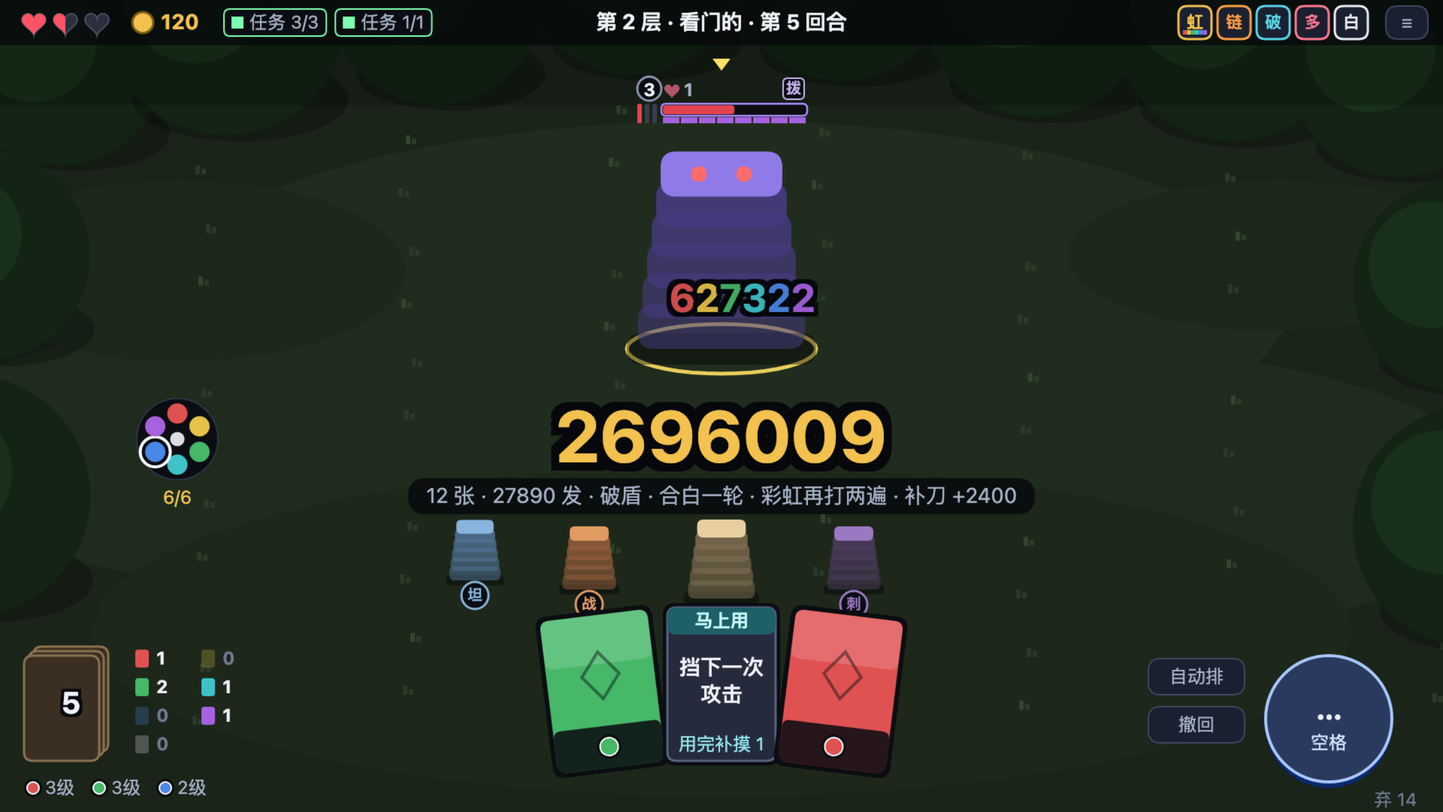
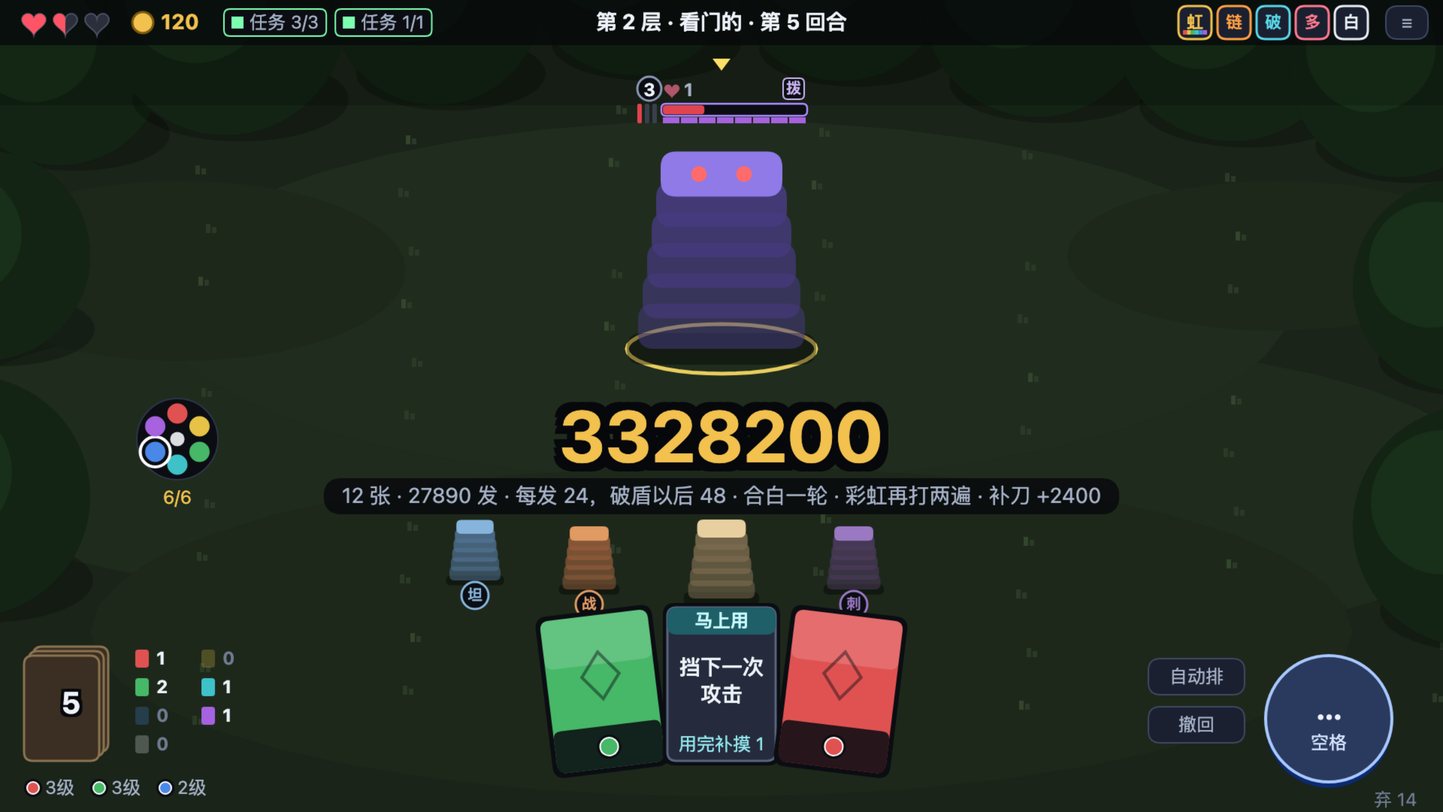
[claude] 上下布局用户点头；飘字照设计稿 5.3 改回一发一个数
- 整体摆放、头顶放血条和盾条（不显示一堆数据）写成定了
- 飘字：一发一个数，显示这一发多少；同一张牌连着冒；多了几发合一包，包上还是写一发多少
- 长链一张牌最多冒 4 个、0.5 秒淡掉；彩虹那两遍冒得多一些当压轴
- 之前错做成「一张牌一个数」，候选说明里撤回

Changed region(s): [[0.2188, 0.5, 0.7812, 0.6562], [0.4375, 0.3438, 0.5938, 0.4062], [0.4688, 0.125, 0.5312, 0.1562]]

diff --git a/原型/neon/modules/battle-view/proposals/updown.js b/原型/neon/modules/battle-view/proposals/updown.js
@@ -212,14 +212,14 @@ function buildTimeline(s) {
   s.chain.forEach((c, i) => {
     const fire = i * iv;
     ev.push({ k: 'fire', i, t: fire });
-    ev.push({ k: 'hit', i, t: fire + flight, target: s.target ?? 0, dmg: c.dmg, label: c.label, kind: c.kind || 'normal', shred: c.shred, crit: c.crit });
-    if (c.white) ev.push({ k: 'white', i, t: fire + flight + 0.08, dmgs: c.white.dmgs, label: c.white.label });
+    ev.push({ k: 'hit', i, t: fire + flight, target: s.target ?? 0, dmg: c.dmg, hits: c.hits, per: c.per, critShare: c.critShare, critPer: c.critPer, kind: 'normal', shred: c.shred });
+    if (c.white) ev.push({ k: 'white', i, t: fire + flight + 0.08, hits: c.white.hits, per: c.white.per });
     if (c.ally) ev.push({ k: 'ally', t: fire + flight + 0.28, ally: c.ally });
     t = Math.max(t, fire + flight, c.ally ? fire + flight + 0.28 + 0.3 : 0); // 队友那一刀砍完才算打完
   });
   if (s.rainbow) {
     ev.push({ k: 'rainbowRing', t: t + 0.25 });
-    s.rainbow.forEach((p, j) => ev.push({ k: 'hit', i: -1, t: t + 0.45 + j * 0.3, target: s.target ?? 0, dmg: p.dmg, label: p.label, kind: 'rainbow' }));
+    s.rainbow.forEach((p, j) => ev.push({ k: 'hit', i: -1, t: t + 0.45 + j * 0.3, target: s.target ?? 0, dmg: p.hits * p.per, hits: p.hits, per: p.per, kind: 'rainbow' }));
     t += 0.45 + s.rainbow.length * 0.3;
   }
   ev.push({ k: 'total', t: t + 0.35 });
@@ -238,6 +238,17 @@ function stateAt(s, t) {
     traits: m.traits,
   }));
   const fx = { hits: [], floaters: [], whites: [], allyAt: [], slashes: [], frags: [], rainbowAt: -10, totalAt: -10, monAt: -10, fired: -1 };
+  // 飘字（设计稿 5.3）：一发一个数，数是这一发打了多少。同一张牌的几发连着冒出来；
+  // 一张牌最多冒 packBudget 个，发数再多就几发合成一包，包上还是写一发多少。
+  const emit = (m, t0, hits, per, kind, critShare = 0, critPer = 0) => {
+    const budget = (s.packBudget ?? 8) * (kind === 'rainbow' ? 3 : 1); // 彩虹是压轴，满屏多冒一些
+    const n = Math.max(1, Math.min(hits, budget));
+    for (let i = 0; i < n; i++) {
+      const cnt = Math.round((hits * (i + 1)) / n) - Math.round((hits * i) / n);
+      const crit = critShare > 0 && Math.floor((i + 1) * critShare) > Math.floor(i * critShare);
+      fx.floaters.push({ t: t0 + (i / n) * (kind === 'rainbow' ? 0.3 : 0.24), m, text: String(crit ? critPer : per), count: cnt > 1 ? cnt : 0, kind: crit ? 'crit' : kind, n: fx.floaters.length });
+    }
+  };
   let total = 0; // 这一下一共打了多少（溢出的也算，玩家看的就是这个数）
   const applyDmg = (mi, dmg, at) => {
     const st = ms[mi];
@@ -264,8 +275,7 @@ function stateAt(s, t) {
     if (e.k === 'hit') {
       applyDmg(e.target, e.dmg, e.t);
       fx.hits.push({ i: e.i, t: e.t, target: e.target, kind: e.kind });
-      fx.floaters.push({ t: e.t, m: e.target, text: e.label, kind: e.kind, n: fx.floaters.length });
-      if (e.crit) fx.floaters.push({ t: e.t + 0.05, m: e.target, text: e.crit, kind: 'crit', n: fx.floaters.length });
+      emit(e.target, e.t, e.hits, e.per, e.kind, e.critShare, e.critPer);
       const st = ms[e.target];
       if (e.shred && !st.broken && st.alive) {
         for (const [c, n] of Object.entries(e.shred)) { const sh = st.shields.find((x) => x.color === c); if (sh) sh.cur = Math.max(0, sh.cur - n); }
@@ -276,15 +286,15 @@ function stateAt(s, t) {
       fx.whites.push({ t: e.t });
       s.monsters.forEach((m, mi) => {
         if (!ms[mi].alive) return;
-        applyDmg(mi, e.dmgs[mi], e.t);
-        fx.floaters.push({ t: e.t, m: mi, text: e.label[mi], kind: 'white', n: fx.floaters.length });
+        applyDmg(mi, e.hits * e.per[mi], e.t);
+        emit(mi, e.t, e.hits, e.per[mi], 'white');
       });
     }
     if (e.k === 'ally') {
       fx.allyAt.push({ t: e.t, idx: e.ally.idx, say: e.ally.say });
       fx.slashes.push({ t: e.t + 0.3, m: s.target ?? 0, color: e.ally.color });
       applyDmg(s.target ?? 0, e.ally.dmg, e.t + 0.3);
-      fx.floaters.push({ t: e.t + 0.3, m: s.target ?? 0, text: String(e.ally.dmg), kind: 'ally', n: fx.floaters.length });
+      fx.floaters.push({ t: e.t + 0.3, m: s.target ?? 0, text: String(e.ally.dmg), count: 0, kind: 'ally', n: fx.floaters.length });
     }
     if (e.k === 'rainbowRing') fx.rainbowAt = e.t;
     if (e.k === 'total') fx.totalAt = e.t;
@@ -475,29 +485,29 @@ export function drawUpDown(r, s, t, opts = {}) {
         r.transform({ x: tg.x + tg.s * 0.5 + 72, y: tg.y - tg.s * 0.45, scale: pop(k * 2) }, () => rainbowText(r, '彩虹 ×3', 0, 0, F.xl));
       }
     }
-    // 飘字：每只怪一列，新的从下面弹出来，旧的往上推、过一会淡掉。长链十几个数也不叠
+    // 飘字：一发一个数，散在怪身上，冒出来弹一下、往上飘一点、0.75 秒淡掉
     {
-      const lineH = (f) => (f.kind === 'crit' ? 34 : f.kind === 'ally' || f.kind === 'rainbow' ? 30 : 26);
-      const sizeOf = (f) => (f.kind === 'crit' ? 30 : f.kind === 'ally' || f.kind === 'rainbow' ? 26 : 22);
-      s.monsters.forEach((m, mi) => {
-        const col = fx.floaters.filter((f) => f.m === mi && f.t <= now).sort((a, b) => a.t - b.t);
-        const sl = slots[mi];
-        const baseY = sl.y - sl.s * 0.18;
-        const room = baseY - (sl.y - sl.s - REGIONS.overhead.gap + REGIONS.overhead.barH + REGIONS.overhead.toughH + 22); // 往上推到血条下面为止
-        let up = 0;
-        for (let j = col.length - 1; j >= 0; j--) {
-          const f = col[j];
-          const k = life(now, f.t, 1.3);
-          if (k > 1 || up > room) break;
-          const x = sl.x + (j % 2 ? 14 : -14);
-          const y = baseY - up - Math.min(1, k * 4) * 6;
-          const a = Math.min(k < 0.75 ? 1 : (1 - k) / 0.25, up > room - 30 ? (room - up) / 30 : 1);
-          r.withAlpha(Math.max(0, a), () => r.transform({ x, y, scale: pop(k * 5) }, () => {
-            if (f.kind === 'rainbow') rainbowText(r, f.text, 0, 0, sizeOf(f));
-            else bold(r, f.text, 0, 0, { size: sizeOf(f), align: 'center', color: f.kind === 'crit' ? T.crit : f.kind === 'ally' ? '#ffd9a8' : '#ffffff', outline: f.kind === 'white' ? '#1d4a8a' : f.kind === 'ally' ? '#5a2a0a' : '#07080c' });
-          }));
-          up += lineH(f);
-        }
+      const rnd = (n, k) => { const v = Math.sin(n * 12.9898 + k * 78.233) * 43758.5453; return v - Math.floor(v); };
+      const SIZE = { normal: 17, white: 17, rainbow: 19, crit: 23, ally: 26 };
+      const COLOR = { normal: '#ffffff', white: '#ffffff', crit: T.crit, ally: '#ffd9a8' };
+      const EDGE = { normal: '#07080c', white: '#1d4a8a', crit: '#3a1a00', ally: '#5a2a0a' };
+      fx.floaters.forEach((f) => {
+        const dur = f.kind === 'ally' ? 1.1 : (s.floatLife ?? 0.75);
+        const k = life(now, f.t, dur);
+        if (k < 0 || k > 1) return;
+        const sl = slots[f.m];
+        const w = Math.max(sl.s, 100);
+        const x = f.kind === 'ally' ? sl.x + w * 0.42 : sl.x + (rnd(f.n, 1) - 0.5) * w * 1.25;
+        const y = (f.kind === 'ally' ? sl.y - sl.s * 0.75 : sl.y - sl.s * (0.15 + rnd(f.n, 2) * 0.7)) - k * 16;
+        const size = SIZE[f.kind];
+        r.withAlpha(k < 0.7 ? 1 : (1 - k) / 0.3, () => r.transform({ x, y, scale: pop(k * 6) }, () => {
+          if (f.kind === 'rainbow') rainbowText(r, f.text, 0, 0, size);
+          else bold(r, f.text, 0, 0, { size, align: 'center', color: COLOR[f.kind], outline: EDGE[f.kind] });
+          if (f.count && s.showPackCount) { // 合成的一包：要不要小字写几发，先关着（太乱），见候选说明 B 第 3 问
+            const tw = r.measureText(f.text, { size, weight: 'bold' }).width;
+            bold(r, `×${f.count}`, tw / 2 + 3, 3, { size: 11, color: '#c9d3e6', align: 'left' });
+          }
+        }));
       });
     }
     // 总数：链飞走以后，在链那里弹出来

diff --git a/原型/neon/modules/battle-view/proposals/updown-scenes.js b/原型/neon/modules/battle-view/proposals/updown-scenes.js
@@ -5,6 +5,11 @@
 // hand：一群 4 只，回合刚开始，手里 12 张（最多就是 12），鼠标放在一张牌和一只怪上。
 
 const g = (color, gems, extra = {}) => ({ color, gems, ...extra });
+// 链里一张牌打出去：hits 发，每发 per；critShare 是暴击的比例，暴击那几发每发 critPer
+const hit = (hits, per, critShare = 0, critPer = 0) => {
+  const critHits = Math.round(hits * critShare);
+  return { hits, per, critShare, critPer, dmg: (hits - critHits) * per + critHits * critPer };
+};
 
 const DECK = { red: 3, yellow: 2, green: 4, cyan: 3, blue: 4, purple: 2, white: 1 };
 
@@ -39,17 +44,17 @@ const ONE = {
   ],
   flyIn: 1, // 链尾那张是从手里第 2 个位子飞过去的
   chain: [
-    g('red', ['red'], { mult: '×1', dmg: 15, label: '15', shred: { red: 1 } }),
-    g('purple', ['red', 'blue'], { mult: '×2', rel: 'connect', dmg: 60, label: '60', shred: { red: 1, blue: 1 } }),
-    g('blue', ['blue'], { mult: '×4', rel: 'connect', dmg: 60, label: '60', shred: { blue: 1 }, ally: { idx: 0, say: '补刀', color: '#c9a8ff', dmg: 120 } }),
-    g('cyan', ['green', 'blue'], { mult: '×8', rel: 'connect', dmg: 720, label: '720', kind: 'crit' }), // 16 发 × 30，里面有几发暴击
+    g('red', ['red'], { mult: '×1', ...hit(1, 15), shred: { red: 1 } }),
+    g('purple', ['red', 'blue'], { mult: '×2', rel: 'connect', ...hit(4, 15), shred: { red: 1, blue: 1 } }),
+    g('blue', ['blue'], { mult: '×4', rel: 'connect', ...hit(4, 15), shred: { blue: 1 }, ally: { idx: 0, say: '补刀', color: '#c9a8ff', dmg: 120 } }),
+    g('cyan', ['green', 'blue'], { mult: '×8', rel: 'connect', ...hit(16, 30, 0.5, 60) }), // 破盾以后每发 ×1.5，一半暴击
   ],
   hand: [g('green', ['green'], { dim: true }), { fn: true, text: '挡下一次攻击', draw: 1 }],
   handAfter: [g('green', ['green']), { fn: true, text: '挡下一次攻击', draw: 1 }],
   ghost: [600],
   willShred: [{ red: 2, blue: 2 }],
   pv: { hits: 25, per: 15, total: 615, hint: '第 3 张破盾，后面 ×1.5' },
-  why: '4 张 · 25 发 · 第 3 张破盾，后面 ×1.5 · 补刀 +120',
+  why: '4 张 · 25 发 · 每发 15，破盾以后 30 · 补刀 +120',
 };
 
 const PACK = {
@@ -80,10 +85,10 @@ const PACK = {
   ],
   flyIn: 0,
   chain: [
-    g('yellow', ['red', 'green'], { mult: '×1', dmg: 30, label: '30' }),
-    g('green', ['green'], { mult: '×2', rel: 'connect', dmg: 30, label: '30' }),
-    g('purple', ['red', 'blue'], { mult: '×4', rel: 'complement', dmg: 120, label: '120', shred: { blue: 1 }, white: { dmgs: [120, 160, 160], label: ['120', '160', '160'] } }),
-    g('blue', ['blue'], { mult: '×8', rel: 'connect', dmg: 120, label: '120', shred: { blue: 1 }, ally: { idx: 0, say: '补刀', color: '#c9a8ff', dmg: 90 } }),
+    g('yellow', ['red', 'green'], { mult: '×1', ...hit(2, 15) }),
+    g('green', ['green'], { mult: '×2', rel: 'connect', ...hit(2, 15) }),
+    g('purple', ['red', 'blue'], { mult: '×4', rel: 'complement', ...hit(8, 15), shred: { blue: 1 }, white: { hits: 12, per: [15, 20, 20] } }), // 合白：红绿蓝三份，每份倍率那么多发
+    g('blue', ['blue'], { mult: '×8', rel: 'connect', ...hit(8, 15), shred: { blue: 1 }, ally: { idx: 0, say: '补刀', color: '#c9a8ff', dmg: 90 } }),
   ],
   hand: [g('red', ['red'], { dim: true }), g('green', ['green'], { dim: true })],
   handAfter: [g('red', ['red']), g('green', ['green'])],
@@ -91,10 +96,10 @@ const PACK = {
   willShred: [{ blue: 2 }],
   pv: { hits: 20, per: 15, total: 300, hint: '合白：3 只都吃一轮' },
   attack: { m: 2, hearts: 0.5, blocked: false, reset: 3 },
-  why: '4 张 · 20 发 · 合白一轮 3 只 · 补刀 +90',
+  why: '4 张 · 20 发 · 合白一轮 3 只各 12 发 · 补刀 +90',
 };
 
-// 看门的：每发 30，盾没破 ×0.75 = 22.5，破了 ×1.5 = 45
+// 看门的：盾没破每发 24，破了 48
 const hitsOf = [2, 8, 8, 32, 64, 128, 512, 1536, 1024, 4096, 4096, 16384];
 const GATE_CHAIN = [
   g('red', ['red'], { mult: '×2' }),
@@ -110,16 +115,12 @@ const GATE_CHAIN = [
   g('blue', ['blue'], { mult: '×4096', rel: 'connect' }),
   g('purple', ['red', 'blue'], { mult: '×8192', rel: 'connect' }),
 ];
-const gateChain = GATE_CHAIN.map((c, i) => {
-  const per = i < 3 ? 22.5 : 45;
-  const dmg = Math.round(hitsOf[i] * per);
-  return { ...c, dmg, label: String(dmg) };
-});
+const gateChain = GATE_CHAIN.map((c, i) => ({ ...c, ...hit(hitsOf[i], i < 3 ? 24 : 48, i === 11 ? 0.3 : 0, 120) }));
 gateChain[2].ally = { idx: 1, say: '补刀', color: '#c9a8ff', dmg: 2400 };
-gateChain[9].white = { dmgs: [gateChain[9].dmg], label: [String(gateChain[9].dmg)] };
-gateChain[11].kind = 'crit';
-const RAINBOW_PASS = 627322; // 换了一条新血，盾是满的，彩虹再打的两遍吃 ×0.75
-const gateSum = gateChain.reduce((a, c) => a + c.dmg + (c.white ? c.white.dmgs[0] : 0) + (c.ally ? c.ally.dmg : 0), 0) + RAINBOW_PASS * 2;
+gateChain[9].white = { hits: 2048 * 3, per: [48] };
+const CHAIN_HITS = hitsOf.reduce((a, b) => a + b, 0);
+const RAINBOW = { hits: CHAIN_HITS, per: 24 }; // 换了一条新血，盾是满的，彩虹再打的两遍每发 24
+const gateSum = gateChain.reduce((a, c) => a + c.dmg + (c.white ? c.white.hits * c.white.per[0] : 0) + (c.ally ? c.ally.dmg : 0), 0) + RAINBOW.hits * RAINBOW.per * 2;
 
 const GATE = {
   status: {
@@ -150,13 +151,15 @@ const GATE = {
   queued: GATE_CHAIN,
   flyIn: 4,
   chain: gateChain,
-  rainbow: [{ dmg: RAINBOW_PASS, label: String(RAINBOW_PASS) }, { dmg: RAINBOW_PASS, label: String(RAINBOW_PASS) }],
+  rainbow: [RAINBOW, RAINBOW],
+  packBudget: 4, // 长链：一张牌最多冒 4 个数，0.5 秒就淡掉，同屏二十来个
+  floatLife: 0.5,
   hand: [g('green', ['green'], { dim: true }), { fn: true, text: '挡下一次攻击', draw: 1 }, g('red', ['red'], { dim: true })],
   handAfter: [g('green', ['green']), { fn: true, text: '挡下一次攻击', draw: 1 }, g('red', ['red'])],
   ghost: [1200000],
   willShred: [{ green: 2 }],
-  pv: { hits: 27890, per: 45, total: gateSum - 2400, hint: '第 3 张破盾 · 彩虹再打两遍' },
-  why: '12 张 · 27890 发 · 破盾 · 合白一轮 · 彩虹再打两遍 · 补刀 +2400',
+  pv: { hits: CHAIN_HITS, per: 48, total: gateSum - 2400, hint: '第 3 张破盾 · 彩虹再打两遍' },
+  why: `12 张 · ${CHAIN_HITS} 发 · 每发 24，破盾以后 48 · 合白一轮 · 彩虹再打两遍 · 补刀 +2400`,
 };
 
 const HAND = {

diff --git a/进度.md b/进度.md
@@ -6,16 +6,16 @@
 **做到哪**：设计稿第 3 版整份用户点过头了。原型：neon 做完阶段 0 和阶段 1 前半段（`原型/neon/`），**claude 接手**，就在 `原型/neon/` 里同时做布局和阶段 1 后半段（提示词 `原型/提示词-接手neon.md`，提交写 `[claude]`）。
 - 第一步修小毛病**做完了**。
 - 第二步**等用户挑**：`原型/neon/给用户挑-画面和加成队友.md`（A 画面框架、B 战斗布局、C 4 个加成和 2 个队友）。
-- **B 按用户的纠正重做了**：用户说美术样片的圆台、木桩只是怪的展示页，战斗在森林空地上；要上下布局、手牌排成弧、怪头顶只放一根血条和小状态（细节悬停才出）、出手要有简单的提示特效。前四个布局作废，新做了一页会动的上下布局 `原型/neon/modules/battle-view/proposals/updown.html`，截图 `原型/neon/shots/上下布局/`。这几条纠正也写进了 `CLAUDE.md` / `AGENTS.md` 第 4 节「画面和美术」。
+- **B 按用户的纠正重做了，用户点了头**：整体摆放可以；怪头顶放血条和盾条，但不显示一堆数据；飘字照设计稿 5.3，一发一个数（我上一版问成「一张牌一个数」是问错了，已改回）。用户说美术样片的圆台、木桩只是怪的展示页，战斗在森林空地上；要上下布局、手牌排成弧、怪头顶只放一根血条和小状态（细节悬停才出）、出手要有简单的提示特效。前四个布局作废，新做了一页会动的上下布局 `原型/neon/modules/battle-view/proposals/updown.html`，截图 `原型/neon/shots/上下布局/`。这几条纠正也写进了 `CLAUDE.md` / `AGENTS.md` 第 4 节「画面和美术」。
 
 **下一步**：
-1. 用户挑 A、B、C。倾向：960×540 不换；B 就照上下布局，怪头顶放细盾条、飘字一张牌一个数、链放中间；加成 1A、2B、3C、4A；队友刺客 B + 辅助 B。然后照挑的重做 `battle-view`、写 `设计/界面.md`、做加成和队友（第三步）。
+1. 用户挑 A、C，还有 B 剩的一件小事（合成的一包要不要写「×几发」，倾向不写）。倾向：960×540 不换；加成 1A、2B、3C、4A；队友刺客 B + 辅助 B。然后照挑的重做 `battle-view`、写 `设计/界面.md`、做加成和队友（第三步）。
 2. 跑假玩家，再给用户打（第四步）。
 3. 都做完以后：写设计稿的人在 `设计/设计.md` 第 10 节加一句指向 `设计/界面.md`；问用户要不要调盾的格数、破盾推几格（检查记录第 5、6 条）。
 
 **还剩多少设计没定**（每次回复都要报）：
 - 开工前要确认的：**没有了**。
-- 现在要跟用户定的：A 画面框架（3 问）、B 上下布局（4 问）、C 4 个加成和 2 个队友。
+- 现在要跟用户定的：A 画面框架（3 问）、B 剩 1 件小事、C 4 个加成和 2 个队友。
 - 开工以后边做边跟用户定的：
   - 12 个加成的草表，「长链」那条要加平时也能用上的；3~4 个小事件（阶段 2）；
   - 每发疼在一趟里怎么喂（阶段 2）；
@@ -114,3 +114,4 @@
 - 2026-11-23　修复赤翼飞龙翅膀骨骼与嘴部喷火坐标问题：更新 `美术/教程-像素堆叠AI制作方案/feilong/index.html`（成年宽翼包围盒扩至 `30×28×26` 彻底消除尾缘 Y 边界裁切；双形态翼指肋骨改用与龙身同色系的细鳞骨 `mat('scale')`、仅保留翼腕尖爪为角质并新增肩根肌垫内嵌至背脊；幼年与成年均补齐 `mid` 中间帧实现 `up/mid/down` 三段平滑振翅；新增 `getMouthWorldPos()` 精确计算双形态龙口炽核世界坐标与朝向，修复成年「烈焰喷吐」蓄力/光束/焦痕与幼年「火苗喷嚏」脱口偏位；同步修复成年三节尾 Z 阶跃与颈头升降联动；经 Node 自动化校验与多视角截图复查通过：35 色 0 重色、0 遮挡、翼边界裁切 0 体素、建模 32.9ms、翼根枢轴误差 0.0000 格）；更新 `进度.md`。
 - 2026-11-23　将赤翼飞龙复盘出的骨骼与特效排错经验沉淀至教程：更新 `美术/教程-像素堆叠AI制作方案/README.md` 与 `AI提示词模板.md`（补充第 6~8 条骨骼化防坑铁律、Node 边界裁切与挂点对齐校验项、以及缺陷案例库/踩坑速查表，写明宽翼盒裁切、翼骨配色/肩根内嵌与三段振翅、正向运动学特效挂点真源、尾链 Z 连续性与颈头升降联动的出错根因与规范）；更新 `进度.md`。
 - 2026-11-23　[claude] 照用户纠正重做战斗布局：上下布局、森林空地、手牌一道弧、怪头顶只有血条 + 细盾条 + 小图标（悬停出细节）、简单的出手提示特效；新增 `原型/neon/modules/battle-view/proposals/updown.js`、`updown-scenes.js`、`updown.html`，截图 `原型/neon/shots/上下布局/`；画图接口加 `transform`（带单测）；候选说明 B 段重写；`CLAUDE.md` / `AGENTS.md` 第 4 节加「画面和美术」。
+- 2026-11-23　[claude] 用户点头上下布局和头顶放血条、盾条；飘字照设计稿 5.3 改回一发一个数（合包也显示一发多少，长链一张牌最多冒 4 个、0.5 秒淡掉），候选说明 B 段写成定了；改了 `proposals/updown.js`、`updown-scenes.js` 和截图。

diff --git a/原型/neon/进度.md b/原型/neon/进度.md
@@ -6,13 +6,13 @@
 - 第一步修小毛病：做完了。
 - 第二步拿给用户挑：**等用户挑**。全写在 `给用户挑-画面和加成队友.md`：
   - A 画面框架：960×540 不换、留黑边；状态栏放什么；字号、配色、牌面、飘字；
-  - B 战斗布局：**按用户纠正重做成上下布局**。用户说美术样片的圆台、木桩是怪的展示页，不是战斗场景；战斗在森林空地上，要上下布局、手牌一道弧、怪头顶只放血条和小状态、细节悬停才出、要有简单的出手提示特效。新页 `modules/battle-view/proposals/updown.html`（会动，1~4 换场面，`?t=` 定格），画法在 `updown.js`（开头的 `REGIONS` 就是以后 `layout.js` 的草稿），假数据 `updown-scenes.js`，截图 `shots/上下布局/`。前四个布局（`index.html`、`layouts.js`、`shots/布局候选/`）作废，留着只当记录；
+  - B 战斗布局：**按用户纠正重做成上下布局，用户点了头**（整体摆放、头顶放血条和盾条但不显示一堆数据、飘字照设计稿 5.3 一发一个数）；只剩「合成的一包要不要写 ×几发」，倾向不写。用户说美术样片的圆台、木桩是怪的展示页，不是战斗场景；战斗在森林空地上，要上下布局、手牌一道弧、怪头顶只放血条和小状态、细节悬停才出、要有简单的出手提示特效。新页 `modules/battle-view/proposals/updown.html`（会动，1~4 换场面，`?t=` 定格），画法在 `updown.js`（开头的 `REGIONS` 就是以后 `layout.js` 的草稿），假数据 `updown-scenes.js`，截图 `shots/上下布局/`。前四个布局（`index.html`、`layouts.js`、`shots/布局候选/`）作废，留着只当记录；
   - C 加成四个位子各两三种（倾向 1A、2B、3C、4A），队友 6 个候选（倾向刺客 B + 辅助 B）。
 - 画图接口加了 `transform({x, y, rotate, scale}, fn)`，弧形手牌、弹字都靠它，带单测。
 
 **下一步**：用户挑完，做第三步：主题进 `modules/ui/`、区域表进 `modules/battle-view/layout.js`、照上下布局重做 `battle-view`（提示特效一起搬过去）、调试面板、写 `设计/界面.md`；加成和队友做成数据和动作，带单测。`proposals/` 定了以后删掉或留作对照。
 
-**顺手发现**：一条链打出几十包以上时，`fx` 只留最后 36 包、都带 0.45 秒延迟，打出去先空一下再一起冒出来。上下布局里飘字改成了「每只怪一列，新的从下面弹出、旧的往上推」，重做时照这个改。
+**顺手发现**：一条链打出几十包以上时，`fx` 只留最后 36 包、都带 0.45 秒延迟，打出去先空一下再一起冒出来。上下布局里的做法（照设计稿 5.3）：一发一个数，一张牌最多冒 packBudget 个、多了几发合一包，包上还是写一发多少；长链时一张最多 4 个、0.5 秒淡掉。重做 `fx` 时照这个改。
 
 **接手时注意**：只提交自己改的文件，不用 `git add -A`（`美术/` 有用户别的改动）；提交写 `[claude]`；`npm test` 全过；截图一批十几张会超过 2 分钟，放后台跑。
 
@@ -24,3 +24,4 @@
 - 2026-11-23　[claude] 第二步：画面框架、三个战斗布局（色块假数据，`modules/battle-view/proposals/`，截图 `shots/布局候选/`）、4 个加成和 2 个队友的候选，写成 `给用户挑-画面和加成队友.md`，等用户挑。
 - 2026-11-23　[claude] 对照 `美术/` 的像素堆叠样片看布局：样片是斜看的圆台、主角站左下，加了布局四「斜看圆台」，倾向改成它；改了 `proposals/layouts.js`、`kit.js`、候选说明，新截图 `布局4-*.png`。
 - 2026-11-23　[claude] 照用户纠正重做战斗布局成上下布局（森林空地、弧形手牌、头顶只有血条 + 细盾条 + 小图标、悬停出细节、简单出手特效）：新增 `proposals/updown.js`、`updown-scenes.js`、`updown.html`，`kit.js` 的倍数签能调字号；`render` 加 `transform` 和单测；截图 `shots/上下布局/`；候选说明 B 段重写、A3 跟着改。
+- 2026-11-23　[claude] 用户点头上下布局；飘字照设计稿 5.3 改回一发一个数（之前错做成一张牌一个数），候选说明 B 段写成定了；改了 `proposals/updown.js`、`updown-scenes.js` 和截图。

diff --git a/原型/neon/给用户挑-画面和加成队友.md b/原型/neon/给用户挑-画面和加成队友.md
@@ -49,7 +49,7 @@ A 画面框架、B 战斗布局、C 4 个加成和 2 个队友。每块给建议
   - 白色伤害（合白、白牌）：白字蓝边；
   - 彩虹再打的：一个字一个颜色；
   - 队友那一份：米橙色。
-  - 一张链牌冒一个数，是这张一共打了多少（见 B 第 3 问）。
+  - 一发一个数，显示这一发打了多少；发数多了几发合成一包，一包还是显示一发多少（设计稿 5.3）。
 - **破盾**：血条右边弹一个青色的「破盾！」，血条下面的盾条变成青色在闪。
 - **危险**：倒计时剩 1 的那只，圆章变红、在跳，脚下一圈红。
 
@@ -107,12 +107,20 @@ A 画面框架、B 战斗布局、C 4 个加成和 2 个队友。每块给建议
 | 怪的回合 | 上面一条「怪的回合」，倒计时跳一下 |
 | 怪出手 | 它往下一扑，一道红线打到主角，主角蒙一层白、屏幕四边一圈红、冒「-½」，状态栏少半颗心；被挡下的话是一圈蓝 |
 
-### 要拍板的
+### 定了的（用户 2026-11-23）
 
-1. **整体就这样摆？** **倾向：是。**
-2. **怪头顶放不放盾条**：用户说头顶只放「一根血条和几个小状态」。盾（带颜色的韧性条）我放成血条下面贴着的一条细线，按颜色一格一段。不放的话，还差几格破盾就只能悬停看。**倾向：放**。破盾是排链时最要紧的那一步，得一眼看出还差几格；设计稿 5.5 写了血条和破盾参考崩铁，崩铁也是血条下面一条韧性条。
-3. **飘字一张牌一个数，还是每发一个数**：一张链牌打几发到几千发，每发都飘就是满屏糊。**倾向：一张牌一个数**（这张牌一共打了多少），有暴击的那张变金色加大；想看每发多少，以后做战斗记录。A3 原来写的「113 ×4096」打包显示，跟着改成这条。
-4. **链放中间，还是贴在手牌上面**：放中间，宝石从链飞到怪的路最短，打出时眼睛不用上下跳；缺点是主角头上那块被链占了。**倾向：放中间。**
+1. **整体就这样摆**：怪在上、链在中间、主角和队友在下、手牌一道弧。
+2. **怪头顶放血条和盾条**，不显示一堆数据：一根血条、下面一条细的分色盾条、几个小图标，血多少、盾几格这些数，鼠标放上去才出来。
+3. **飘字照设计稿 5.3「显示」那几条来**（用户讨论设计时就定了，我上一版问成「一张牌一个数」是问错了，撤回）：
+   - **一发一个数**，数是这一发打了多少（前期几十，后期几千到几万）；
+   - 同一张牌的几发连着冒出来；暴击的那几发更大、金橙色；
+   - 同屏的数有上限，发数再多就几发合成一包，**一包还是显示一发多少**；
+   - 一条链打完，中间亮出这一下的总数，下面一行写怎么来的。
+   - 截图里：一只怪是一个个「15」散在怪身上（`one-3-破盾.png`）；看门的 12 张长链是一大片「48」，夹着暴击的「120」和队友的「2400」（`gate-2-合白和满屏数字.png`）；彩虹再打的两遍一字一色，冒得更多，当压轴。
+
+### 还要你拍板的（小事）
+
+- **合成的一包，要不要在旁边小字写「×几发」**：写了知道这一包是几发，但长链时满屏「48 ×171」很乱（试过）。**倾向：不写**，有几发看链打完的那行字和右边的预览框。
 
 ### 已知的毛病
 
